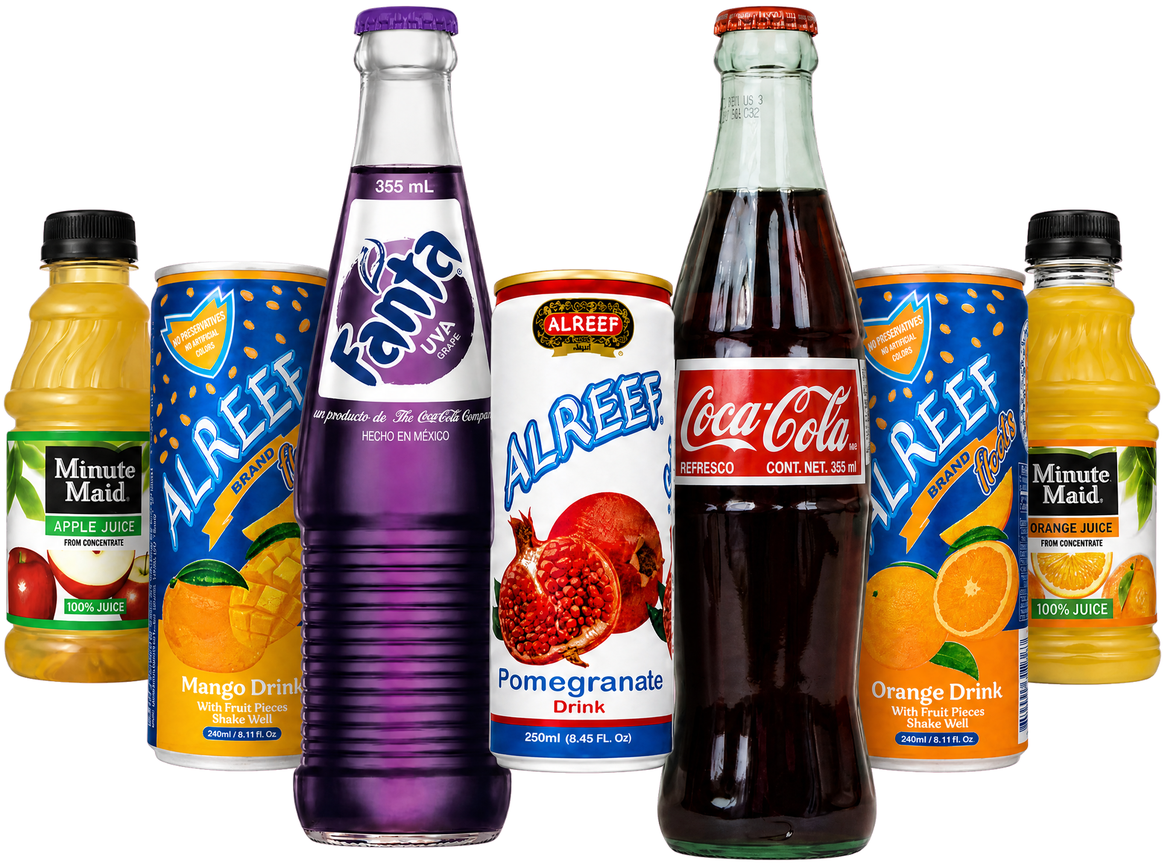
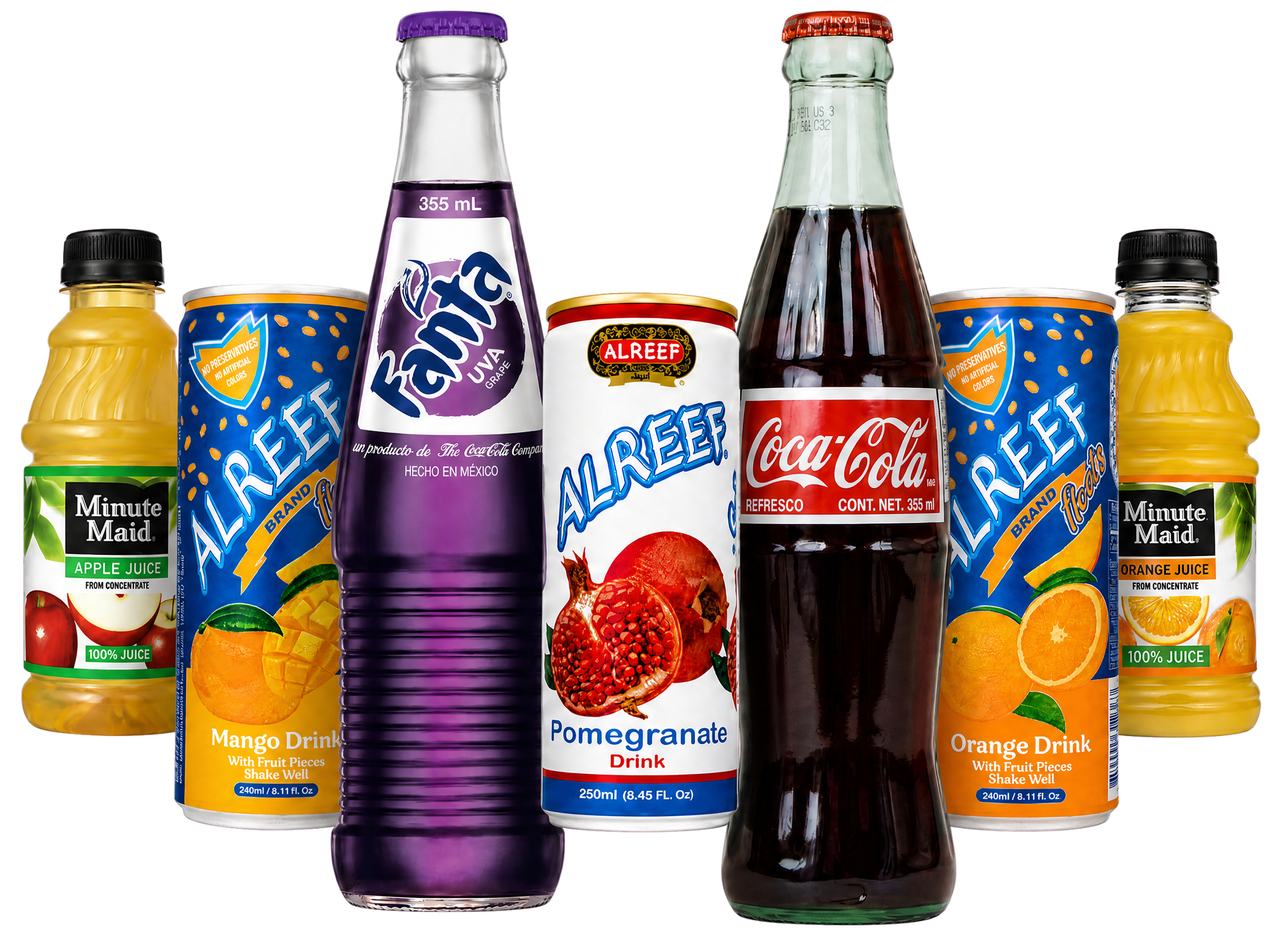
fix(tv): taller screen3 photos + full-width drinks packshot
- Middle row col photos fill leftover column height (no 220px stubby clamp)
- Loaded fries/hummus frames taller (300px cap)
- Packshot rebuilt with side pad; width-first fit so outer juices stay in frame

Changed region(s): [[0.0, 0.0, 1.0, 1.0]]

diff --git a/html-menus/templates/tv-screen3.html b/html-menus/templates/tv-screen3.html
@@ -132,15 +132,15 @@
   .s3-row1-block .text-block .tv-item .price { font-size: 21px; }
   .s3-row1-block .text-block .tv-note { font-size: 14.5px; }
   .s3-row1-block .product-frame {
-    width: 40%;
-    max-width: 270px;
+    width: 42%;
+    max-width: 300px;
     height: 100%;
-    max-height: 230px;
+    max-height: 300px;
     flex: 0 0 auto;
   }
   .s3-row1-block .product-frame .photo-card {
     flex: 1 1 auto;
-    min-height: 150px;
+    min-height: 200px;
     overflow: hidden;
   }
   .s3-row1-block .product-frame .card-name { font-size: 13px; }
@@ -178,8 +178,8 @@
     padding: 6px 0;
     margin: 0;
     width: 100%;
-    flex: 1 1 auto;
-    min-height: 0;
+    flex: 1 1 0;          /* claim leftover height for taller col photos */
+    min-height: 280px;
     box-sizing: border-box;
   }
 
@@ -222,12 +222,12 @@
   .s3-row2 .r2-col.premium { grid-column: 4; border-left: 1px solid rgba(211,171,94,.3); padding-left: 10px; }
 
   .s3-row2 .r2-col .col-text {
-    flex: 1 1 auto;
+    flex: 0 0 auto;          /* lists only as tall as content */
     min-height: 0;
     display: flex;
     flex-direction: column;
     justify-content: flex-start;
-    gap: 10px;
+    gap: 8px;
   }
   .s3-row2 .group-block { flex: 0 0 auto; }
   .s3-row2 .group-title {
@@ -281,14 +281,15 @@
 
   /* bottom photo — equal height across all 4 cols */
   .s3-row2 .r2-col .col-photo {
-    flex: 0 0 auto;
+    flex: 1 1 auto;          /* take remaining column height */
     width: 100%;
-    margin-top: 10px;
+    margin-top: 8px;
     display: flex;
     flex-direction: column;
-    min-height: 0;
-    /* fixed band so all four match */
-    height: clamp(150px, 22vh, 220px);
+    min-height: 240px;
+    /* fill leftover column height under text */
+    height: auto;
+    max-height: none;
   }
   .s3-row2 .r2-col .col-photo .product-frame,
   .s3-row2 .r2-col .col-photo .s3-combo-fig {
@@ -453,15 +454,15 @@
     display: grid;
     /* OUTER air on text rails · packshot hugged to lists */
     grid-template-columns:
-      28px   /* outer left of soft-drinks */
+      22px   /* outer left of soft-drinks */
       4px
-      minmax(150px, 0.95fr)  /* soft drinks */
-      0px    /* snug to packshot */
-      minmax(340px, 2.5fr)   /* packshot fills middle */
-      0px    /* snug to packshot */
-      minmax(150px, 0.95fr)  /* juice */
+      minmax(145px, 0.9fr)   /* soft drinks */
+      0px
+      minmax(380px, 2.7fr)   /* packshot wide enough for full flying-V */
+      0px
+      minmax(145px, 0.9fr)   /* juice */
       4px
-      28px;  /* outer right of juice */
+      22px;  /* outer right of juice */
     grid-template-rows: auto minmax(0, 1fr);
     column-gap: 0;
     row-gap: 0;
@@ -555,22 +556,22 @@
     pointer-events: none;
     z-index: 1;
     overflow: visible; /* never clip bottle edges */
-    padding: 0;
-    margin: 0 -2px; /* slight bleed toward lists */
+    padding: 0 6px;
+    margin: 0;
     box-sizing: border-box;
   }
   .s3-drinks-ad img {
     display: block;
-    /* fit inside cell by the tighter dimension — never crop */
-    width: auto;
+    width: 100%;
     height: auto;
     max-width: 100%;
-    max-height: 100%;
+    max-height: 96%;
     object-fit: contain;
     object-position: center center;
     background: transparent;
     border: none;
     transform: none;
+    /* tiny side inset via padding on parent instead of crop */
     filter: drop-shadow(0 8px 14px rgba(0,0,0,.55));
   }
 
